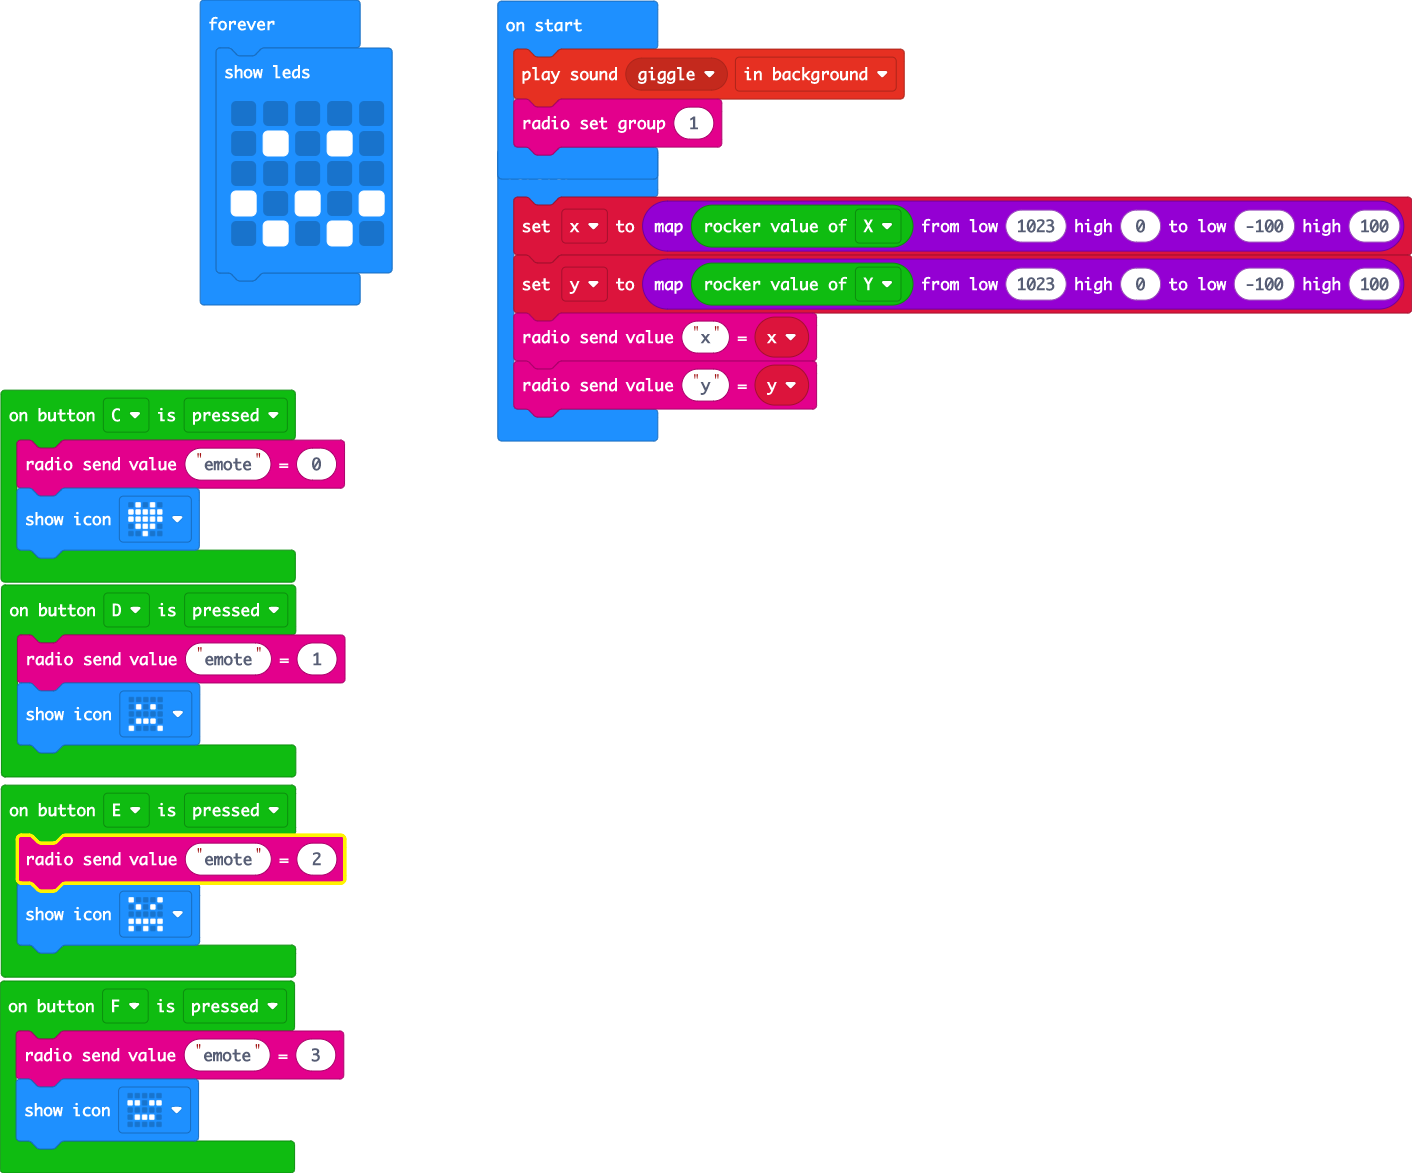
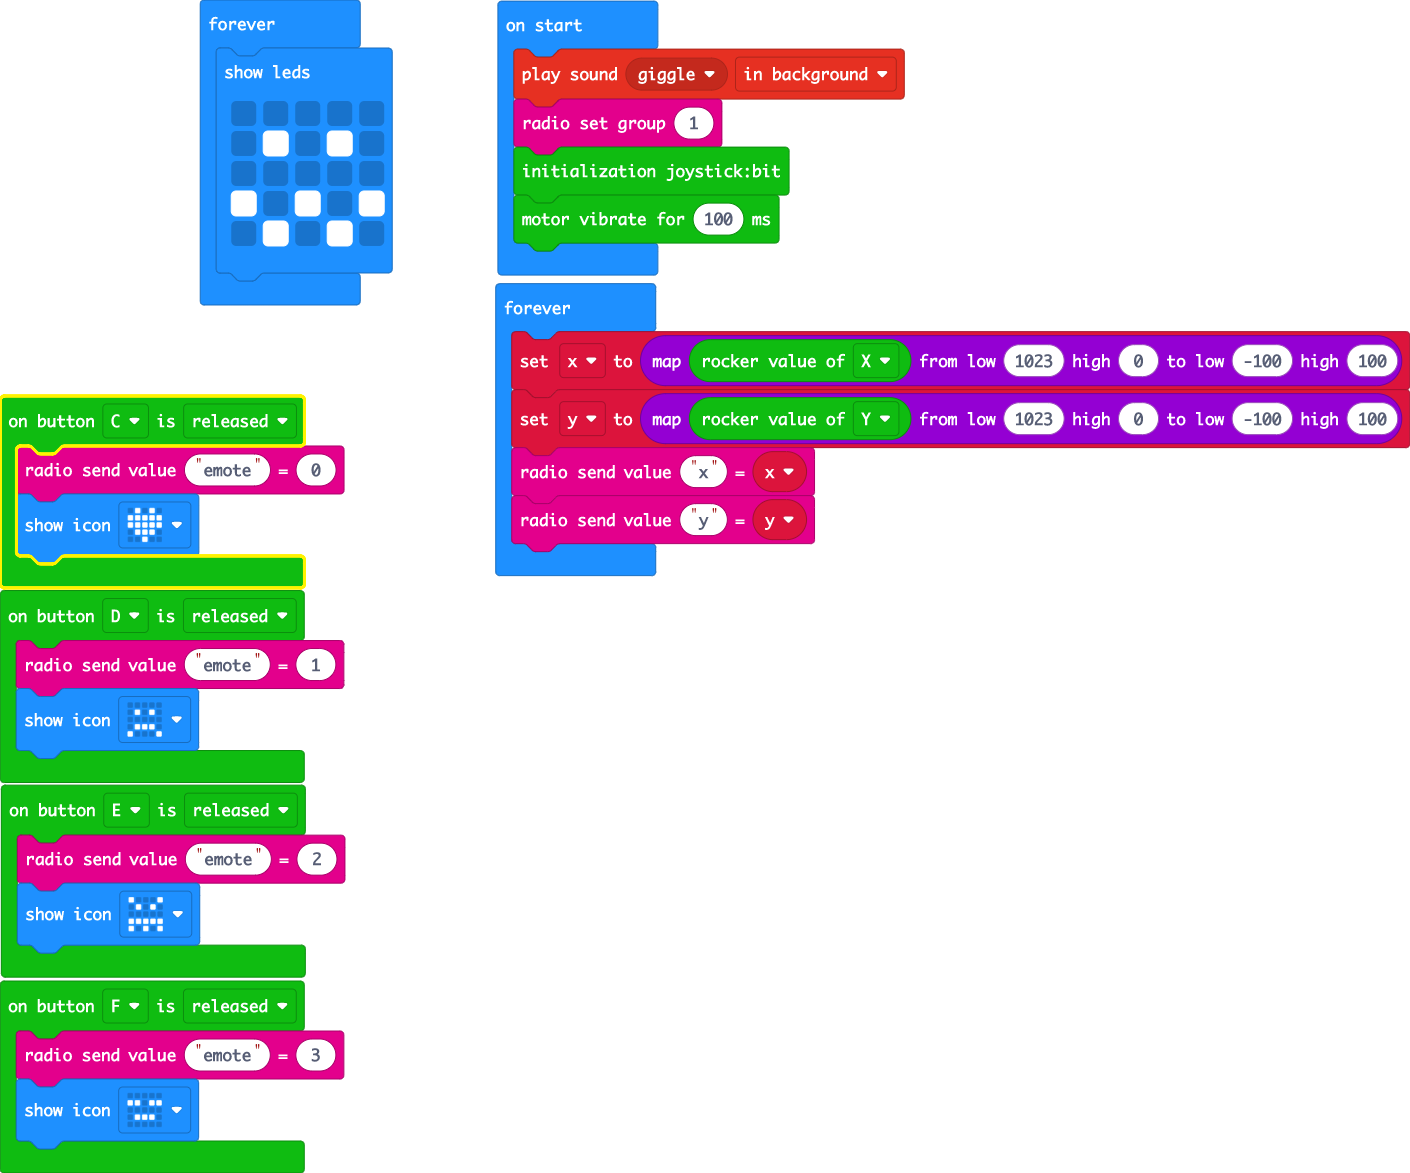
initialize controller

diff --git a/main.ts b/main.ts
@@ -1,23 +1,25 @@
-joystickbit.onButtonEvent(joystickbit.JoystickBitPin.P14, joystickbit.ButtonType.down, function () {
-    radio.sendValue("emote", 2)
-    basic.showIcon(IconNames.Angry)
+joystickbit.onButtonEvent(joystickbit.JoystickBitPin.P12, joystickbit.ButtonType.up, function () {
+    radio.sendValue("emote", 0)
+    basic.showIcon(IconNames.Heart)
 })
-joystickbit.onButtonEvent(joystickbit.JoystickBitPin.P15, joystickbit.ButtonType.down, function () {
-    radio.sendValue("emote", 3)
-    basic.showIcon(IconNames.Asleep)
-})
-joystickbit.onButtonEvent(joystickbit.JoystickBitPin.P13, joystickbit.ButtonType.down, function () {
+joystickbit.onButtonEvent(joystickbit.JoystickBitPin.P13, joystickbit.ButtonType.up, function () {
     radio.sendValue("emote", 1)
     basic.showIcon(IconNames.Sad)
 })
-joystickbit.onButtonEvent(joystickbit.JoystickBitPin.P12, joystickbit.ButtonType.down, function () {
-    radio.sendValue("emote", 0)
-    basic.showIcon(IconNames.Heart)
+joystickbit.onButtonEvent(joystickbit.JoystickBitPin.P15, joystickbit.ButtonType.up, function () {
+    radio.sendValue("emote", 3)
+    basic.showIcon(IconNames.Asleep)
+})
+joystickbit.onButtonEvent(joystickbit.JoystickBitPin.P14, joystickbit.ButtonType.up, function () {
+    radio.sendValue("emote", 2)
+    basic.showIcon(IconNames.Angry)
 })
 let y = 0
 let x = 0
 music.playSoundEffect(music.builtinSoundEffect(soundExpression.giggle), SoundExpressionPlayMode.InBackground)
 radio.setGroup(1)
+joystickbit.initJoystickBit()
+joystickbit.Vibration_Motor(100)
 basic.forever(function () {
     basic.showLeds(`
         . . . . .
